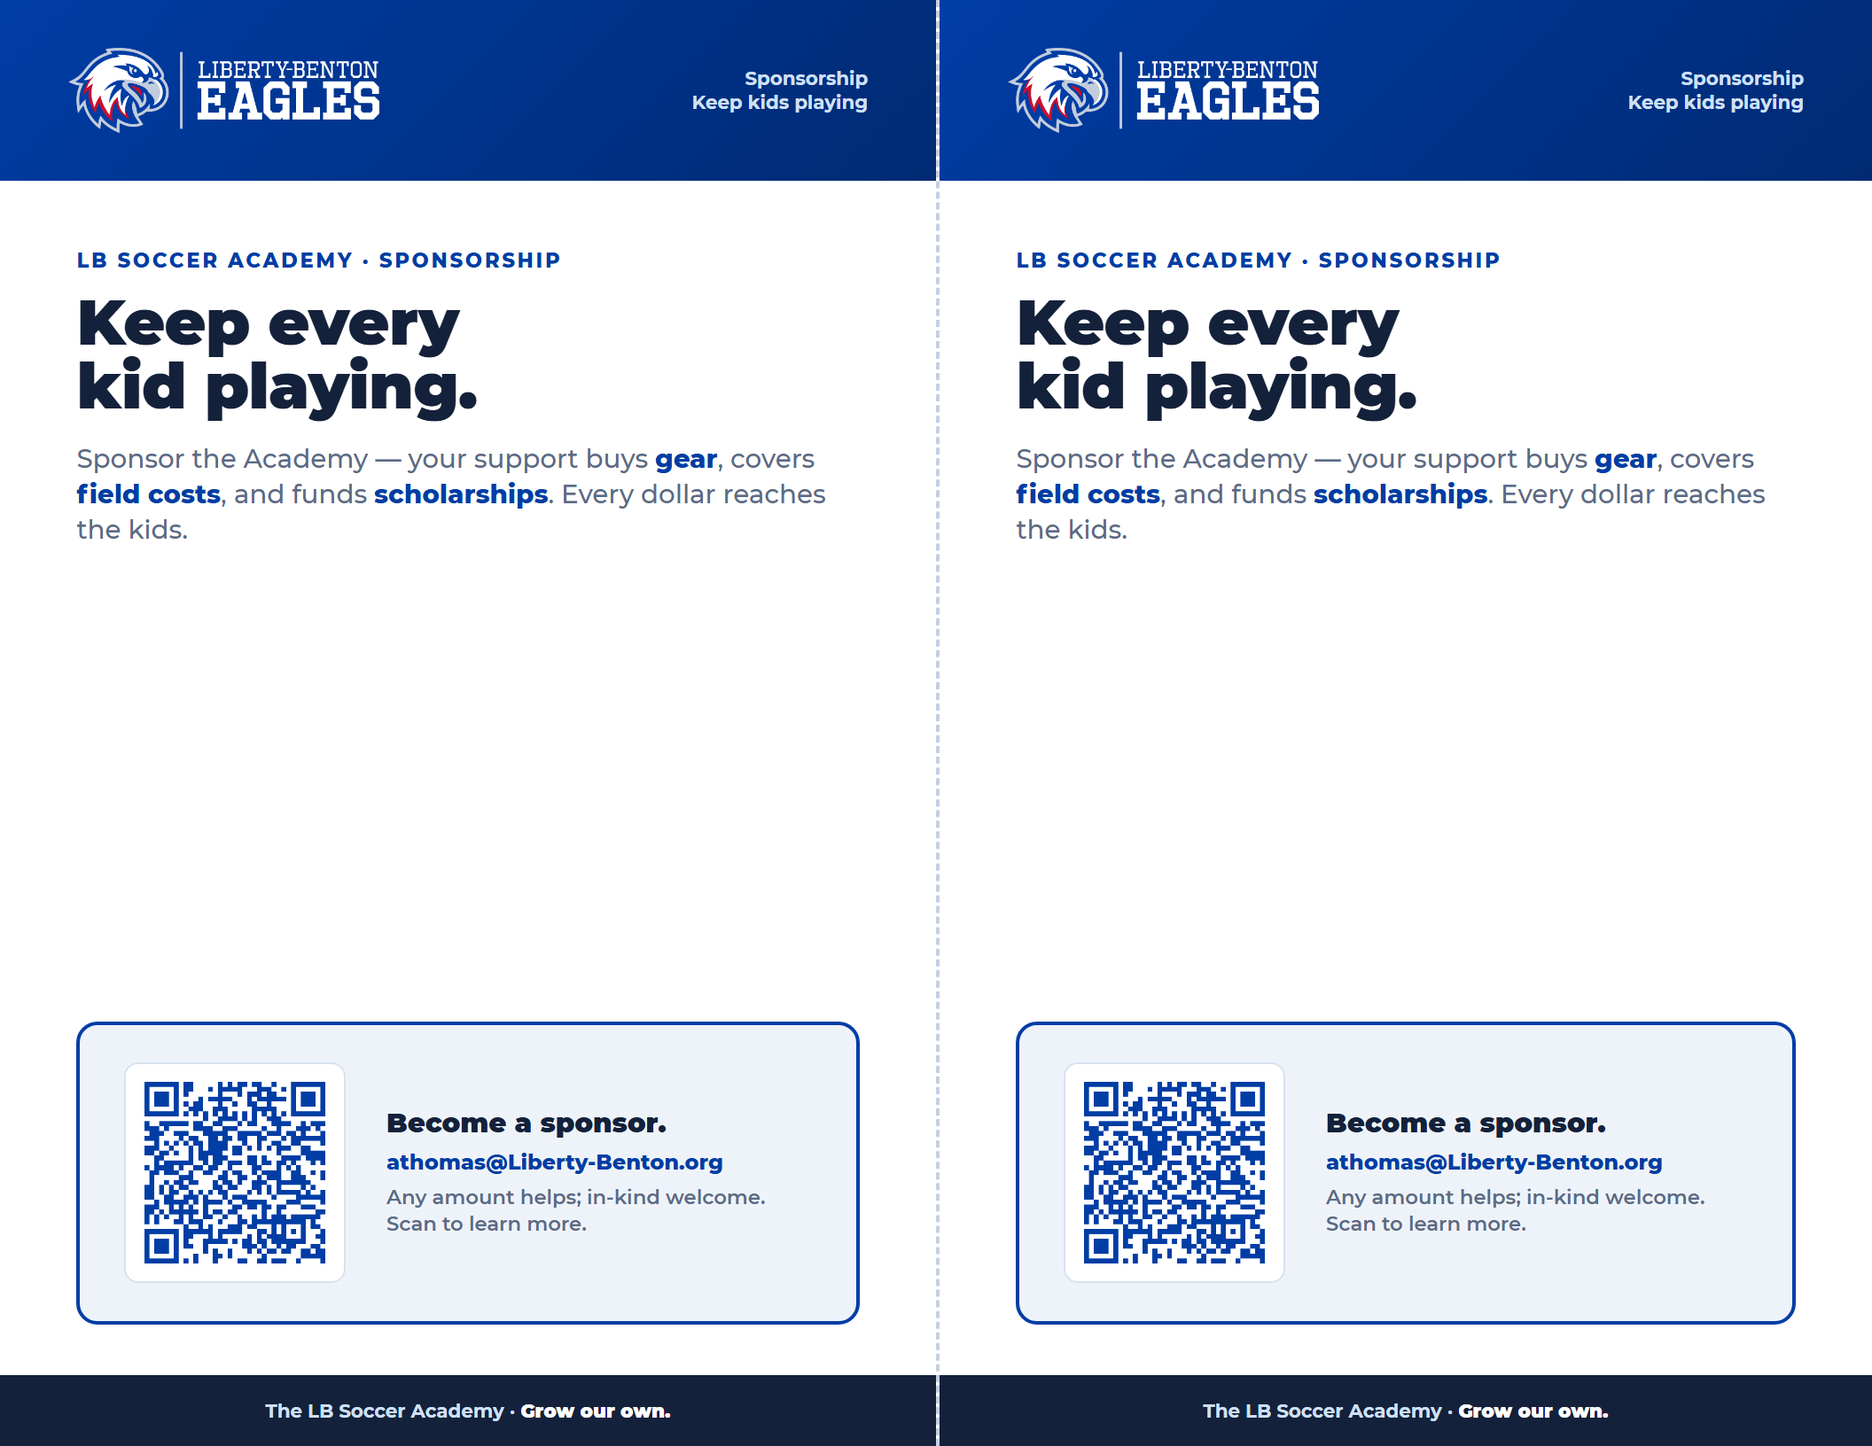
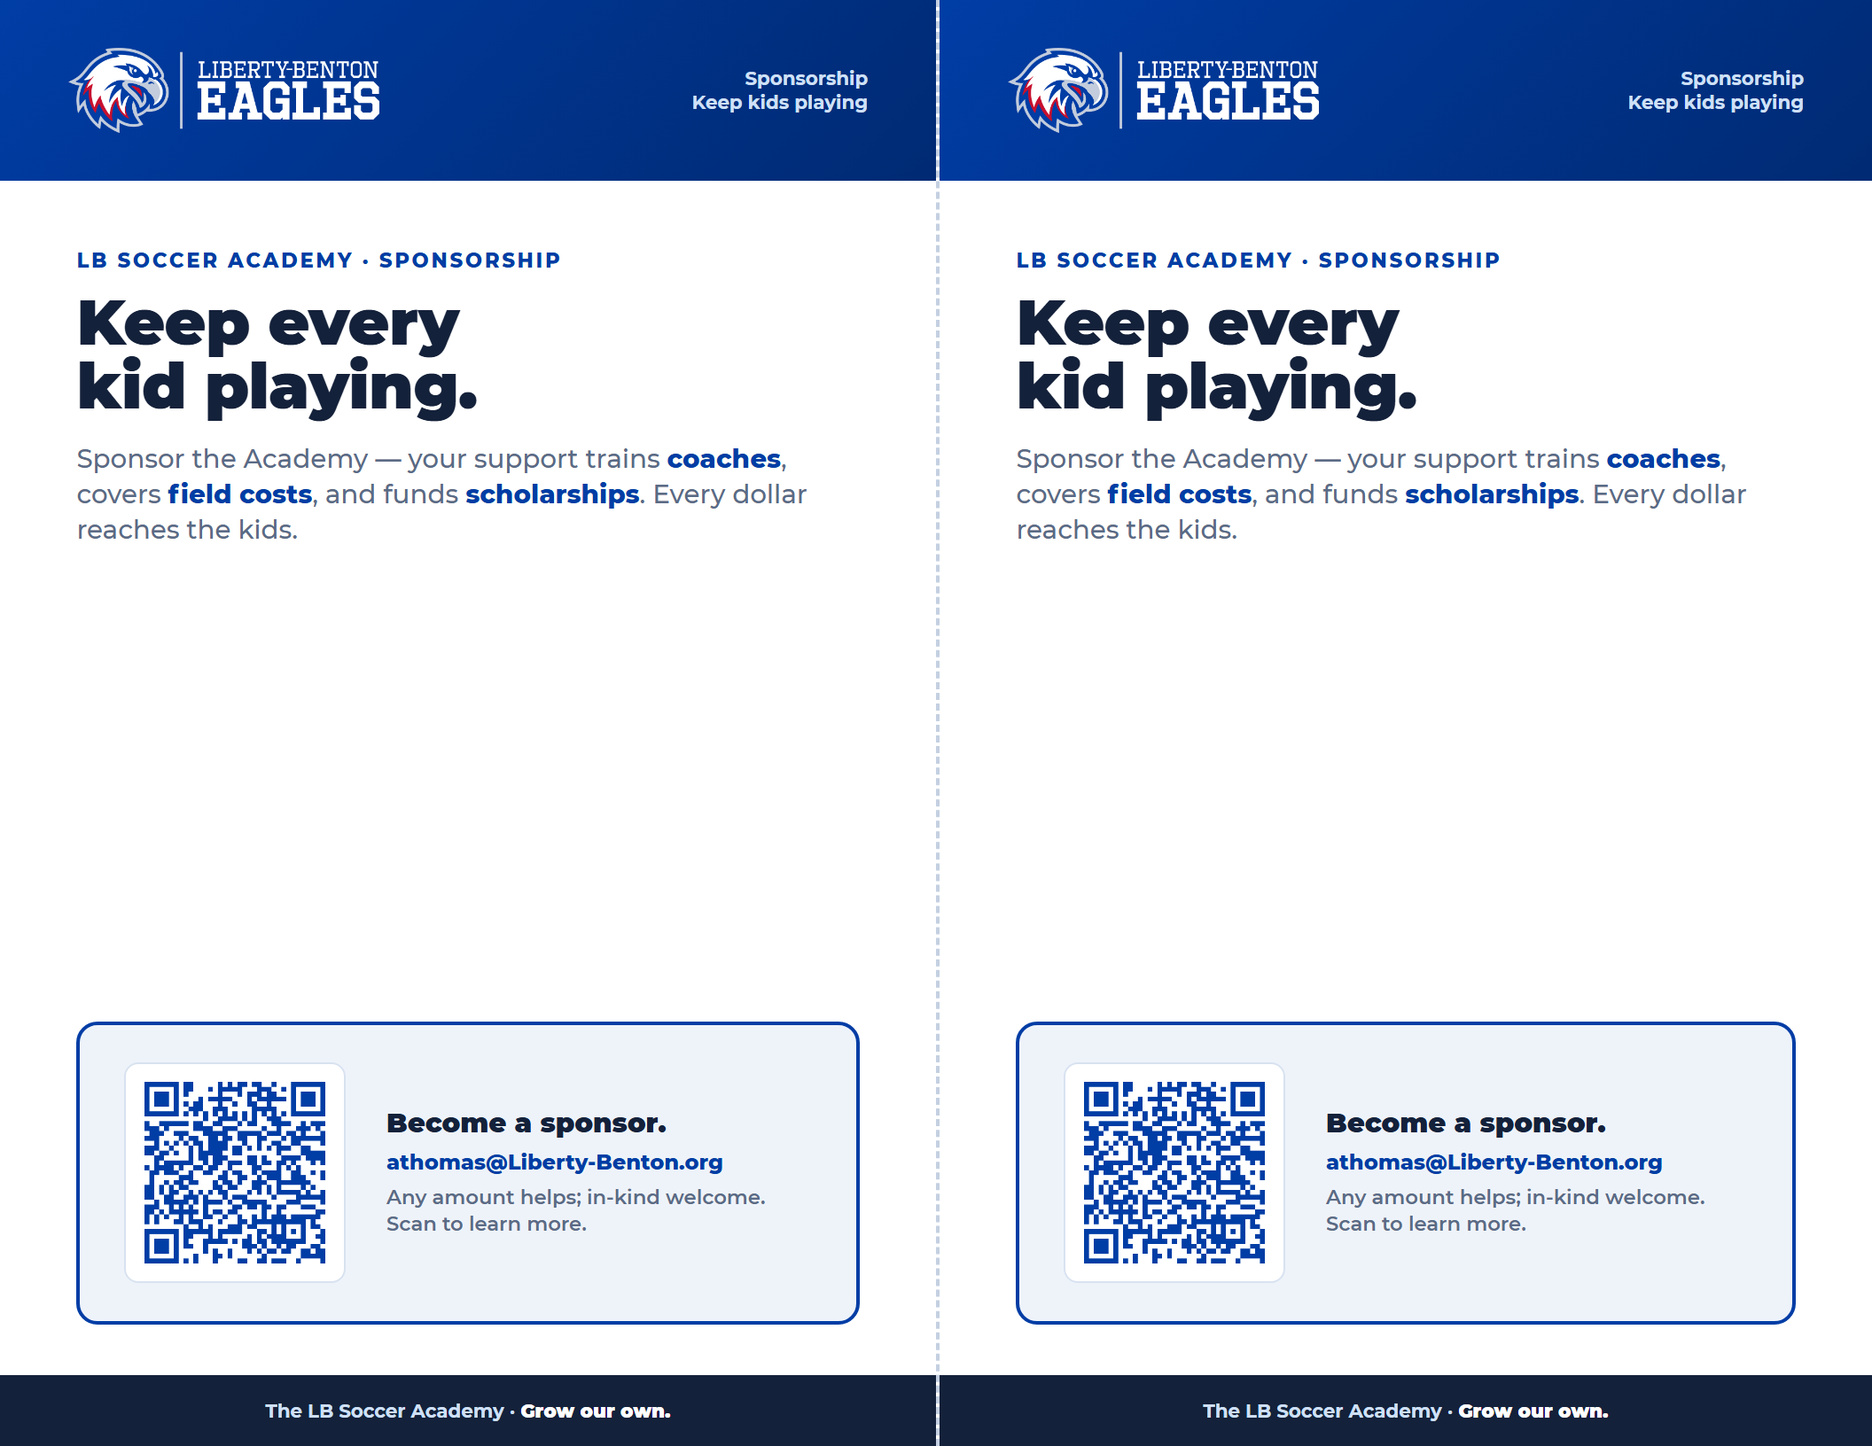
Mentors are on call, park the gear closet, drop the email line
- Mentoring copy now says a high school coach is available for questions,
  feedback and in-person walkthroughs, not at coaches' practices.
- The gear closet is not part of the academy for now: removed from the site,
  the dashboard's sponsor tiers and launch tasks, the sponsor flyer, half-sheet
  and social post, and the strategy notes. Gear-only flyers are kept in
  deliverables/later/gear-closet/.
- Removed the "Rather just email?" line under the questions form.

Changed region(s): [[0.5312, 0.3125, 0.9375, 0.375], [0.0312, 0.3125, 0.4375, 0.375]]

diff --git a/index.html b/index.html
@@ -51,7 +51,6 @@
     <a href="#eaglesway">The Eagles Way</a>
     <a href="#pathway">The path</a>
     <a href="#calendar">Schedule</a>
-    <a href="#gear">Gear closet</a>
     <a href="#faq">FAQ</a>
     <a class="btn btn--sky btn--block" href="#register">Coach with us</a>
   </div>
@@ -327,7 +326,7 @@
         <ul class="keepadd__list">
           <li>The Eagles Way session-plan library</li>
           <li>Preseason coach clinics</li>
-          <li>A high school coach who mentors your practice</li>
+          <li>A high school coach mentor, on call all season</li>
         </ul>
         <p class="keepadd__foot">Everything you need to run the best practice of any team in town.</p>
       </div>
@@ -338,7 +337,7 @@
       <ul class="fitgrid">
         <li class="fit"><span class="fit__k">1 · Come to a clinic</span><p>A ~2-hour preseason clinic where Eagles staff walk you through this season's Eagles Way block. One evening.</p></li>
         <li class="fit"><span class="fit__k">2 · Take the plans</span><p>Grab-and-go session plans for your age group — arrive-and-play warmups, skills, and small-sided games. No prep required.</p></li>
-        <li class="fit"><span class="fit__k">3 · Get a mentor</span><p>A high school coach drops in on your practices, answers questions, and helps you run it — all season, not just once.</p></li>
+        <li class="fit"><span class="fit__k">3 · Get a mentor</span><p>A high school coach you can reach all season for questions, feedback, and an in-person walkthrough when something needs showing. They don't come to your practices — your team stays yours.</p></li>
         <li class="fit"><span class="fit__k">4 · Wear the badge</span><p>You're an Eagles-Affiliated Coach — part of one district-wide way of playing that carries your kids all the way to varsity.</p></li>
       </ul>
     </div>
@@ -500,7 +499,7 @@
 
     <ul class="clinic-cadence">
       <li><span class="clinic-cadence__k">Preseason clinics</span><span class="clinic-cadence__v">One ~2-hour coach clinic before each season — Fall (mid-Aug) and Spring (mid-Mar). That's it: two a year.</span></li>
-      <li><span class="clinic-cadence__k">Mentor visits</span><span class="clinic-cadence__v">A high school coach drops in on affiliated coaches' own practices, all season long.</span></li>
+      <li><span class="clinic-cadence__k">Mentor on call</span><span class="clinic-cadence__v">Affiliated coaches can reach a high school coach all season for questions, feedback, or an in-person walkthrough when it helps.</span></li>
       <li><span class="clinic-cadence__k">Showcases</span><span class="clinic-cadence__v">Two “Play with the Eagles” all-comers days a year, plus game-night appearances under the lights.</span></li>
     </ul>
 
@@ -516,7 +515,7 @@
     <div class="register__head">
       <h2 id="reg-h" class="section-title section-title--light">Sign up.</h2>
       <p class="register__lede">
-        Coaches join for clinics, session plans, and a high school coach mentor. Parents, tell us
+        Coaches join for clinics, session plans, and a high school coach mentor on call. Parents, tell us
         your kid's team and we'll reach their coach. Everyone's welcome — nobody turned away.
       </p>
     </div>
@@ -614,7 +613,7 @@
 
       <div class="field">
         <label for="note">Anything we should know? <span class="field__opt">(optional)</span></label>
-        <textarea id="note" name="note" rows="3" placeholder="Ages you coach, when you practice, first time coaching, gear help…"></textarea>
+        <textarea id="note" name="note" rows="3" placeholder="Ages you coach, when you practice, first time coaching…"></textarea>
       </div>
 
       <button type="submit" class="btn btn--sky btn--lg btn--block" id="regSubmit">Sign up</button>
@@ -627,24 +626,6 @@
       <p class="reg-form__fineprint">By signing up you're just saying hello — we'll reach out with details.</p>
       <p class="reg-form__legal">Soccer involves inherent risks, including injury; The LB Soccer Academy, Liberty-Benton Local Schools, and its coaches, volunteers, and staff are not liable for injury or loss during participation. Players may be photographed or recorded, and those images may be used in Academy and school materials, including social media. Questions? Email <a href="https://mail.google.com/mail/?view=cm&amp;fs=1&amp;to=athomas@Liberty-Benton.org&amp;su=LB%20Soccer%20Academy%20%E2%80%94%20question" target="_blank" rel="noopener" class="link-blue">athomas@Liberty-Benton.org</a>.</p>
     </form>
-  </div>
-</section>
-
-<!-- ============ GEAR CLOSET ============ -->
-<section class="gear" id="gear" aria-labelledby="gear-h">
-  <div class="wrap gear__inner">
-    <div class="gear__copy">
-      <h2 id="gear-h" class="section-title">No kid sits out for gear.</h2>
-      <p>
-        The gear closet is simple: a bin of cleats, shin guards, socks, and balls that
-        any kid on any team can take — <strong>need some? take some.</strong> No forms, no questions.
-        Affiliated coaches can pull from it for their players, and it travels to every
-        showcase, so a kid who forgot or outgrew theirs still plays that day.
-      </p>
-    </div>
-    <div class="gear__actions">
-      <a class="btn btn--blue btn--lg" href="#register">Grab gear for your kid</a>
-    </div>
   </div>
 </section>
 
@@ -670,7 +651,7 @@
       </details>
       <details class="qa">
         <summary><span>I'm a coach — what do I get, and what's the commitment?</span><span class="qa__icon" aria-hidden="true"></span></summary>
-        <div class="qa__body"><p>You get preseason clinics, a grab-and-go session-plan library for your age group, and a high school coach who mentors your practices all season. The commitment is light: one clinic per season and running your own team the Eagles Way. You keep your team, your roster, and your voice on the field.</p></div>
+        <div class="qa__body"><p>You get preseason clinics, a grab-and-go session-plan library for your age group, and a high school coach mentor you can reach all season for questions, feedback, and an in-person walkthrough when you need one. The commitment is light: one clinic per season and running your own team the Eagles Way. You keep your team, your roster, and your voice on the field.</p></div>
       </details>
       <details class="qa">
         <summary><span>What ages and grades does it cover?</span><span class="qa__icon" aria-hidden="true"></span></summary>
@@ -679,10 +660,6 @@
       <details class="qa">
         <summary><span>Is it for boys or girls?</span><span class="qa__icon" aria-hidden="true"></span></summary>
         <div class="qa__body"><p>Both — equally. It's one way of playing and one standard for the boys and girls sides alike. Kids are grouped by age, not gender, and everything we teach serves both.</p></div>
-      </details>
-      <details class="qa">
-        <summary><span>What about cleats and gear?</span><span class="qa__icon" aria-hidden="true"></span></summary>
-        <div class="qa__body"><p>No kid sits out for gear. Our gear closet — kept stocked by the community — has cleats, shin guards, and balls. Any affiliated coach can pull from it, or just ask an organizer. Need some? Take some — no forms, no questions.</p></div>
       </details>
     </div>
   </div>
@@ -697,10 +674,6 @@
       <p class="section-lede section-lede--light">
         Coach, parent, or neighbor — if something's unclear, or something's not sitting right,
         tell us. We read every message and we'll get back to you. No wrong questions.
-      </p>
-      <p class="feedback__direct">
-        Rather just email? Write us at
-        <a class="link-sky" href="https://mail.google.com/mail/?view=cm&amp;fs=1&amp;to=athomas@Liberty-Benton.org&amp;su=LB%20Soccer%20Academy" target="_blank" rel="noopener">athomas@Liberty-Benton.org</a>.
       </p>
     </div>
 
@@ -760,7 +733,6 @@
       </div>
       <div>
         <h3>Community</h3>
-        <a href="#gear">Gear closet</a>
         <a href="#faq">FAQ</a>
         <a href="#contact">Questions &amp; complaints</a>
       </div>

diff --git a/dashboard/src/data.js b/dashboard/src/data.js
@@ -30,9 +30,9 @@ var PHASES = [
   { n: 3,  days: "61–90",   title: "Lock the Soccer Community", goal: "Turn the soccer world into your funnel; set the launch date.",
     tasks: ["Rec league partnership", "SET THE LAUNCH DATE in writing", "Connect youth/MS + club coaches"] },
   { n: 4,  days: "91–120",  title: "Stand Up Funding",        goal: "Get the money vehicle live and land first sponsors.",
-    tasks: ["Finalize booster / 501(c)(3)", "Build sponsor list; run the drive", "Approach gear brands for in-kind"] },
+    tasks: ["Finalize booster / 501(c)(3)", "Build sponsor list; run the drive", "Approach local businesses for in-kind"] },
   { n: 5,  days: "121–150", title: "Build the Machine",       goal: "Turn plans into infrastructure.",
-    tasks: ["Finalize the session plan (schedule, tiers, roster cap)", "Launch gear drive & set up the gear closet", "Build registration + Every Kid Plays flyer"] },
+    tasks: ["Finalize the session plan (schedule, tiers, roster cap)", "Load the Eagles Way library into the dashboard", "Build registration + Every Kid Plays flyer"] },
   { n: 6,  days: "151–180", title: "Fill the Funnel",         goal: "Get kids signed up; select the high school coaches.",
     tasks: ["OPEN REGISTRATION; push everywhere", "Post coach application + select coaches", "Host a spring Youth Night"] },
   { n: 7,  days: "181–210", title: "Final Prep & Train",      goal: "Everything ready; train coaches to the Standard.",
@@ -51,10 +51,10 @@ var PHASES = [
 
 var SPONSOR_TIERS = [
   { key: "champion",  name: "Champion",  min: 1000, does: "Keeps a whole group playing all year" },
-  { key: "eagle",     name: "Eagle",     min: 500,  does: "Stocks the gear closet for a season" },
+  { key: "eagle",     name: "Eagle",     min: 500,  does: "Funds a season of coach clinics" },
   { key: "supporter", name: "Supporter", min: 250,  does: "Keeps a kid playing all season" },
-  { key: "friend",    name: "Friend",    min: 100,  does: "Outfits a kid head-to-toe" },
-  { key: "inkind",    name: "In-kind",   min: 0,    does: "Goods & services — cleats, printing, water" }
+  { key: "friend",    name: "Friend",    min: 100,  does: "Covers a kid's jersey" },
+  { key: "inkind",    name: "In-kind",   min: 0,    does: "Goods & services — balls, printing, water" }
 ];
 function tierForAmount(amt) {
   for (var i = 0; i < SPONSOR_TIERS.length; i++) { if (amt >= SPONSOR_TIERS[i].min && SPONSOR_TIERS[i].min > 0) return SPONSOR_TIERS[i]; }

diff --git a/styles.css b/styles.css
@@ -550,18 +550,6 @@ p{text-wrap:pretty}
 @media (min-width:820px){.sponsor-support{grid-template-columns:1.15fr .85fr}}
 
 /* ============================================================
-   GEAR
-   ============================================================ */
-.gear{padding-block:clamp(2rem,4vw,3.25rem);background:var(--paper)}
-.gear__inner{background:linear-gradient(145deg,#fff,var(--blue-50));border:1px solid var(--hairline);
-  border-radius:var(--r-lg);padding:clamp(1.8rem,4vw,3rem);box-shadow:var(--shadow-sm);
-  display:grid;gap:1.8rem;align-items:center}
-.gear__copy .section-title{font-size:var(--step-2)}
-.gear__copy p{margin-top:1rem;color:var(--ink-soft);font-weight:500;max-width:60ch}
-.gear__copy strong{color:var(--lb-blue)}
-.gear__actions{display:flex;flex-wrap:wrap;gap:.9rem}
-
-/* ============================================================
    FAQ
    ============================================================ */
 .faq{padding-block:var(--section-y);background:#fff}
@@ -610,7 +598,6 @@ p{text-wrap:pretty}
   background:no-repeat center/contain url("assets/logos/Block LB - white.png");opacity:.05;pointer-events:none}
 .feedback__grid{display:grid;gap:clamp(2rem,5vw,4rem);grid-template-columns:1fr;align-items:start;position:relative}
 .feedback__intro .section-lede{margin-top:1.1rem;max-width:44ch}
-.feedback__direct{margin-top:1.4rem;font-weight:600;color:oklch(0.9 .04 255)}
 
 .reg-form{background:#fff;color:var(--ink);border-radius:var(--r-lg);padding:clamp(1.5rem,3.5vw,2.3rem);
   box-shadow:var(--shadow-lg);display:grid;gap:1.1rem}
@@ -695,7 +682,6 @@ p{text-wrap:pretty}
 @media (min-width:560px){
   .reg-form__row{grid-template-columns:1fr 1fr}
   .field--narrow{max-width:none}
-  .gear__inner{grid-template-columns:1.4fr auto}
   .footer__inner{grid-template-columns:auto 1fr}
 }
 @media (min-width:900px){

diff --git a/deliverables/START-HERE.md b/deliverables/START-HERE.md
@@ -27,13 +27,11 @@ Full-page (8.5×11") print flyers at 2× resolution (1632×2112). Each has a **Q
 | Flyer | Use it for | File |
 |-------|-----------|------|
 | **Every Kid Plays** | Recruiting / sign-ups | `every-kid-plays-flyer.png` |
-| **Donate Gear** | Asking the community for gear | `gear-donation-flyer.png` |
-| **Free Gear Closet** | Telling families gear is free | `gear-closet-flyer.png` |
 | **Back the Program** | Recruiting business sponsors | `sponsor-flyer.png` |
 | **Coaches & Volunteers Wanted** | Recruiting coaches/helpers | `coaches-wanted-flyer.png` |
 
 ### Half-sheet versions  → `flyers/half-sheet/`
-Compact **5.5×8.5"** version of all five flyers, **two per page** with a cut line — print
+Compact **5.5×8.5"** version of all three flyers, **two per page** with a cut line — print
 one page, slice down the middle, get two handouts. Files: `*-half.png` (landscape 2112×1632).
 
 ---
@@ -47,7 +45,6 @@ Square **1080×1080** images ready to post to Instagram/Facebook. Each has a QR 
 | **Every Kid Plays** (announcement) | `social-every-kid-plays.png` |
 | **Sign Up — It's Free** (QR) | `social-sign-up.png` |
 | **Back the Program** (sponsors, red) | `social-back-the-program.png` |
-| **Gear Drive** (donations, green) | `social-gear-drive.png` |
 
 ---
 
@@ -78,3 +75,9 @@ real Twilio keys in this file if the repo is public.
 - **Alerts (Remind):** class code **@6ee4bkk** · join `remind.com/join/6ee4bkk` · text `@6ee4bkk` to `81010`
 - **Session calendar:** shared Google Calendar (wired into the site's "Add to calendar" button)
 - **Brand:** LB blue `#003DA5`, Montserrat, Block-LB / Eagle logos in `assets/logos/`
+
+---
+
+## Parked for later  → `later/`
+
+The gear closet isn't part of the academy right now. Its flyers and gear-drive post are kept in `later/gear-closet/` in case it comes back. Don't hand them out.

diff --git a/DESIGN.md b/DESIGN.md
@@ -168,7 +168,7 @@ Intentional, athletic, quick. Ease-out (quart/expo), no bounce, no elastic.
 **Public site** — `public/`, brand register, phone-first. Drenched blue. Narrative fold order
 (from the prior build, still the frame): hero → why it's free → the 4-rung pathway →
 the coaching **Standard** (Touches · Brave · Play · Youngest · System — the *coaching* standard,
-not character values) → sponsor tiers → gear closet → FAQ → register. Boys **and** girls
+not character values) → sponsor tiers → FAQ → register. Boys **and** girls
 present throughout. Form is backend-ready via a `FORM_ENDPOINT` (empty = mailto fallback to
 athomas@Liberty-Benton.org). Ship real imagery (Eagle soccer / youth action) — colored
 blocks where a hero photo belongs is a bug.

diff --git a/deliverables/strategy/DESIGN.md b/deliverables/strategy/DESIGN.md
@@ -168,7 +168,7 @@ Intentional, athletic, quick. Ease-out (quart/expo), no bounce, no elastic.
 **Public site** — `public/`, brand register, phone-first. Drenched blue. Narrative fold order
 (from the prior build, still the frame): hero → why it's free → the 4-rung pathway →
 the coaching **Standard** (Touches · Brave · Play · Youngest · System — the *coaching* standard,
-not character values) → sponsor tiers → gear closet → FAQ → register. Boys **and** girls
+not character values) → sponsor tiers → FAQ → register. Boys **and** girls
 present throughout. Form is backend-ready via a `FORM_ENDPOINT` (empty = mailto fallback to
 athomas@Liberty-Benton.org). Ship real imagery (Eagle soccer / youth action) — colored
 blocks where a hero photo belongs is a bug.

diff --git a/PRODUCT.md b/PRODUCT.md
@@ -34,8 +34,7 @@ best coaches with the youngest kids, protect free play, build one clear pathway 
 it at the district level.
 
 - **Public site** exists to convert a glance into a signed-up kid or a committed sponsor. It
-  carries the "Every Kid Plays" promise (free to play, free gear closet, nobody turned
-  away) and makes being an Eagle the thing to be in town.
+  carries the "Every Kid Plays" promise (free to play, nobody turned away) and makes being an Eagle the thing to be in town.
 - **Dashboard** exists to run the machine: capture & retention discipline, the Four Numbers
   (capture rate · retention rate · active players · sponsor dollars), the phase plan, sponsors.
 

diff --git a/deliverables/strategy/PRODUCT.md b/deliverables/strategy/PRODUCT.md
@@ -34,8 +34,7 @@ best coaches with the youngest kids, protect free play, build one clear pathway 
 it at the district level.
 
 - **Public site** exists to convert a glance into a signed-up kid or a committed sponsor. It
-  carries the "Every Kid Plays" promise (free to play, free gear closet, nobody turned
-  away) and makes being an Eagle the thing to be in town.
+  carries the "Every Kid Plays" promise (free to play, nobody turned away) and makes being an Eagle the thing to be in town.
 - **Dashboard** exists to run the machine: capture & retention discipline, the Four Numbers
   (capture rate · retention rate · active players · sponsor dollars), the phase plan, sponsors.
 
